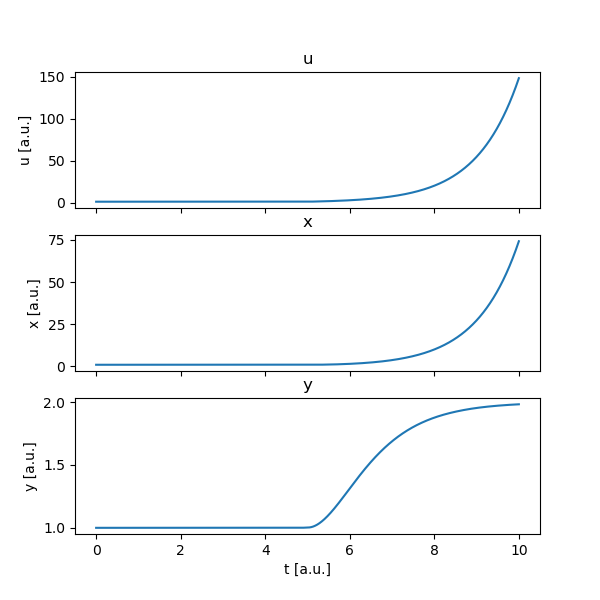
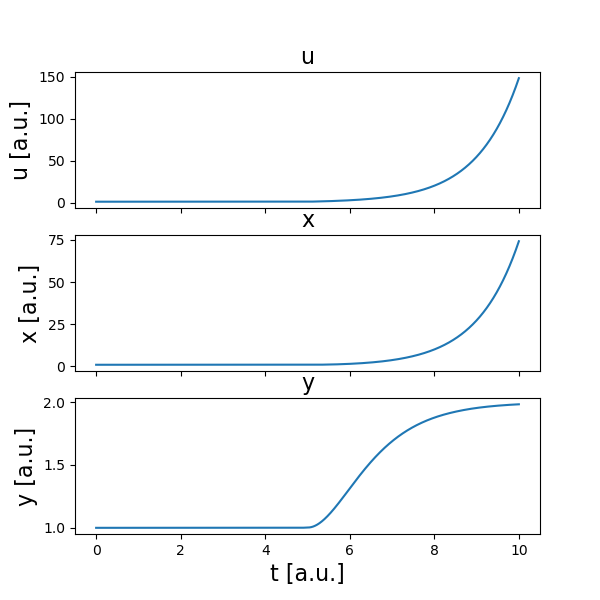
new iffl plots with readable axis labels

diff --git a/plot_xy.py b/plot_xy.py
@@ -3,11 +3,11 @@ from xy_ode import derivatives, uFuns
 from scipy.integrate import solve_ivp
 import numpy as np
 
-INITIAL_VALUES = np.array([1, 1])
+INITIAL_VALUES = np.array([[1, 1],[2,1]])
 NUMBER_OF_POINTS = 10000
 TIME_FRAME1 = (0.0, 10.0)
 TIME_FRAME2 = (0.0, 200.0)
-
+count = 0
 
 def plot_func(func, time_frame, sub_plot):
     time_points = np.linspace(time_frame[0], time_frame[1], NUMBER_OF_POINTS)
@@ -16,27 +16,30 @@ def plot_func(func, time_frame, sub_plot):
 
 
 def plot_ode(deriv, time_frame, sub_plots, u_func):
+    global count
     time_grid = np.linspace(time_frame[0], time_frame[1], NUMBER_OF_POINTS)
-    result = solve_ivp(deriv, time_frame, INITIAL_VALUES, t_eval=time_grid, method='LSODA')
+    result = solve_ivp(deriv, time_frame, INITIAL_VALUES[count], t_eval=time_grid, method='LSODA')
+    count += 1
     for i, sub_plot in enumerate(sub_plots):
         if i == 0:
             plot_func(u_func, time_frame, sub_plot)
-            sub_plot.set_ylabel('u [a.u.]')
-            sub_plot.set_title('u')
+            sub_plot.set_ylabel('u [a.u.]', fontsize=16)
+            sub_plot.set_title('u', fontsize=16)
         else:
             sub_plot.plot(result.t, result.y[i-1])
             if i == 1:
-                sub_plot.set_ylabel('x [a.u.]')
-                sub_plot.set_title('x')
+                sub_plot.set_ylabel('x [a.u.]', fontsize=16)
+                sub_plot.set_title('x', fontsize=16)
             if i == 2:
-                sub_plot.set_ylabel('y [a.u.]')
-                sub_plot.set_xlabel('t [a.u.]')
-                sub_plot.set_title('y')
+                sub_plot.set_ylabel('y [a.u.]', fontsize=16)
+                sub_plot.set_xlabel('t [a.u.]', fontsize=16)
+                sub_plot.set_title('y', fontsize=16)
 
 
 fig, plots = plt.subplots(nrows=3, ncols=1, sharex=True, sharey=False, figsize=(6, 6))
-plot_ode(derivatives[0], TIME_FRAME1, plots, uFuns[0])  # step function
+# plot_ode(derivatives[0], TIME_FRAME1, plots, uFuns[0])  # step function
+# plot_ode(derivatives[3], TIME_FRAME1, plots, uFuns[3])  # step function
 # plot_ode(derivatives[1], TIME_FRAME2, plots, uFuns[1])  # linear
-# plot_ode(derivatives[2], TIME_FRAME1, plots, uFuns[2])  # exponential
-fig.savefig('u_step')
+plot_ode(derivatives[2], TIME_FRAME1, plots, uFuns[2])  # exponential
+fig.savefig('xxx')
 plt.show()

diff --git a/fy_plot.py b/fy_plot.py
@@ -26,8 +26,8 @@ def plot_func(func, time_frame, sub_plot, title='_nolegend_'):
     greyCount += 0.25
     time_points = np.linspace(time_frame[0], time_frame[1], NUMBER_OF_POINTS)
     values = [func(t) for t in time_points]
-    return sub_plot.plot(time_points, values, label=title, color=(greyCount, greyCount, greyCount))
-    # return sub_plot.plot(time_points, values, label=title)
+    # return sub_plot.plot(time_points, values, label=title, color=(greyCount, greyCount, greyCount))
+    return sub_plot.plot(time_points, values, label=title)
 
 
 if __name__ == '__main__':
@@ -37,8 +37,9 @@ if __name__ == '__main__':
         plot_func(lambda y: f_y2(y) + h, (0, 4.5), plot)  # title='h = '+str(round(h)
     line = plot_func(lambda y: 0, (0, 5), plot)
     plt.setp(line, color='#000000', linewidth=0.7)
-    plot.set_ylabel('f(y) [a.u.]')
-    plot.set_xlabel('y [a.u.]')
+    # plot.set_ylabel('f(y) [a.u.]')
+    # plot.set_xlabel('y [a.u.]')
+    '''
     r1 = [[0, 's'], [1.984, 'i'], [4, 's']]
     r2 = [[0.67, 'i'], [4.205, 's']]
     r3 = [[4.32, 's']]
@@ -63,6 +64,9 @@ if __name__ == '__main__':
                     plot.plot(x0[0], 0, '.', color='w', label='_nolegend_')
     fig.legend(bbox_to_anchor=(0.5, 0.35),
                bbox_transform=plt.gcf().transFigure)
-    fig.savefig('fy_ss')
+    '''
+    plt.tick_params(axis='both', which='both', bottom='off', top='off', labelbottom='off',
+                    right='off', left='off', labelleft='off')
+    fig.savefig('fy_new')
     plt.show()
 

diff --git a/xy_ode.py b/xy_ode.py
@@ -31,6 +31,13 @@ def u3(t):
         return np.exp(t-t_event1)
 
 
+def u4(t):
+    if t < t_event1:
+        return 2
+    else:
+        return 4
+
+
 def deriv1(t, v):
     x = v[0]
     y = v[1]
@@ -58,5 +65,14 @@ def deriv3(t, v):
     return dv_dt
 
 
-derivatives = [deriv1, deriv2, deriv3]
-uFuns = [u1, u2, u3]
+def deriv4(t, v):
+    x = v[0]
+    y = v[1]
+    dv_dt = np.zeros(2)
+    dv_dt[0] = -x * delta_x + beta * u4(t)
+    dv_dt[1] = mu * u4(t) / x - delta_y * y
+    return dv_dt
+
+
+derivatives = [deriv1, deriv2, deriv3, deriv4]
+uFuns = [u1, u2, u3, u4]
